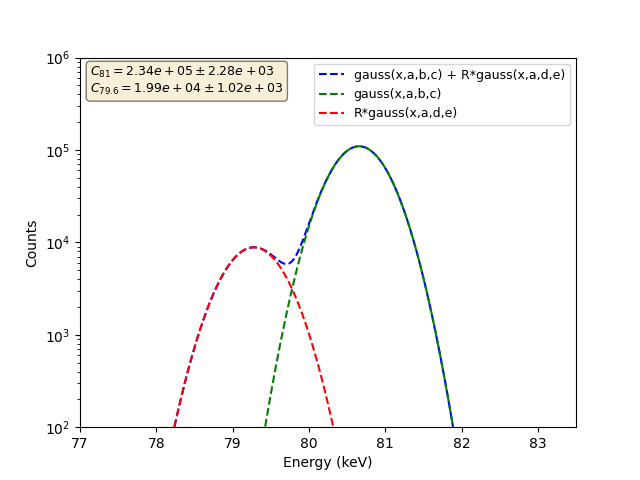
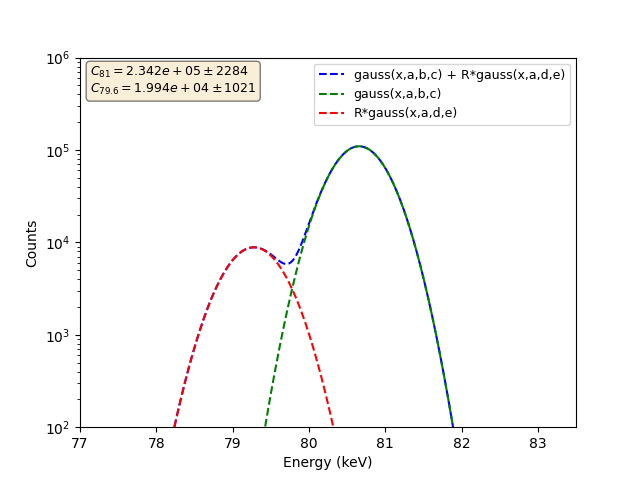
update

Changed region(s): [[0.2188, 0.125, 0.4688, 0.2188]]

diff --git a/Ba133_analysis/Ba133_dlt_analysis.py b/Ba133_analysis/Ba133_dlt_analysis.py
@@ -84,7 +84,7 @@ def main():
     plt.ylabel("Counts")
     plt.legend(loc="upper right", fontsize=9)
     props = dict(boxstyle='round', facecolor='wheat', alpha=0.5)
-    info_str = r'$C_{356} = %.3g \pm %.3g$' % (C_356, C_356_err)
+    info_str = r'$C_{356} = %.4g \pm %.4g$' % (C_356, C_356_err)
     plt.text(0.02, 0.98, info_str, transform=ax.transAxes, fontsize=9,verticalalignment='top', bbox=props) #ax.text
     plt.savefig("/lfs/l1/legend/users/aalexander/HADES_detchar/Ba133_analysis/plots/356keV_dlt_signalonly.png")
 
@@ -98,16 +98,32 @@ def main():
     #try other fits - constrained cdf
     plt.figure()
     popt, pcov, xfit = fit_peak_356_2("Energy (keV)", bins_cal, counts, xmin_356, xmax_356)
-    a,b,c,d,e = popt[0],popt[1],[2],popt[3],popt[4]
+    a,b,c,d,e = popt[0],popt[1],popt[2],popt[3],popt[4]
     counts, bins, bars = plt.hist(calibrated_energy, bins=no_bins, histtype='step', color='grey')
     plt.xlim(xmin_356, xmax_356) 
     plt.ylim(100, 0.5*10**6)
     plt.yscale("log")
     plt.savefig("/lfs/l1/legend/users/aalexander/HADES_detchar/Ba133_analysis/plots/356keV_dlt_2.png")
 
+    fig, ax = plt.subplots()
+    plt.plot(xfit, gaussian(xfit,a,b,c), "b--", label ="gauss(x,a,b,c)")
+    plt.yscale("log")
+    C_356_2, C_356_2_err = gauss_count(a, c, np.sqrt(pcov[0][0]), np.sqrt(pcov[2][2]), bin_width)
+    print("gauss count: ", C_356_2, " +/- ", C_356_2_err )
+    plt.xlim(xmin_356, xmax_356) 
+    plt.ylim(100,10**6) 
+    plt.xlabel("Energy (keV)")
+    plt.ylabel("Counts")
+    plt.legend(loc="upper right", fontsize=9)
+    props = dict(boxstyle='round', facecolor='wheat', alpha=0.5)
+    info_str = r'$C_{356} = %.4g \pm %.4g$' % (C_356_2, C_356_2_err)
+    plt.text(0.02, 0.98, info_str, transform=ax.transAxes, fontsize=9,verticalalignment='top', bbox=props) #ax.text
+    plt.savefig("/lfs/l1/legend/users/aalexander/HADES_detchar/Ba133_analysis/plots/356keV_dlt_signalonly_2.png")
+
+
     plt.figure()
     popt, pcov, xfit = fit_peak_356_3("Energy (keV)", bins_cal, counts, xmin_356, xmax_356)
-    a,b,c,d,e,f = popt[0],popt[1],[2],popt[3],popt[4],popt[5]
+    a,b,c,d,e,f = popt[0],popt[1],popt[2],popt[3],popt[4],popt[5]
     counts, bins, bars = plt.hist(calibrated_energy, bins=no_bins, histtype='step', color='grey')
     plt.xlim(xmin_356, xmax_356) 
     plt.ylim(100, 0.5*10**6)
@@ -149,7 +165,7 @@ def main():
     plt.ylabel("Counts")
     plt.legend(loc="upper right", fontsize=9)
     props = dict(boxstyle='round', facecolor='wheat', alpha=0.5)
-    info_str = '\n'.join(( r'$C_{81} = %.3g \pm %.3g$' % (C_81, C_81_err), r'$C_{79.6} = %.3g \pm %.3g$' % (C_79, C_79_err)))
+    info_str = '\n'.join(( r'$C_{81} = %.4g \pm %.4g$' % (C_81, C_81_err), r'$C_{79.6} = %.4g \pm %.4g$' % (C_79, C_79_err)))
     plt.text(0.02, 0.98, info_str, transform=ax.transAxes, fontsize=9,verticalalignment='top', bbox=props) #ax.text
     plt.savefig("/lfs/l1/legend/users/aalexander/HADES_detchar/Ba133_analysis/plots/81keV_dlt_signalonly.png")
 
